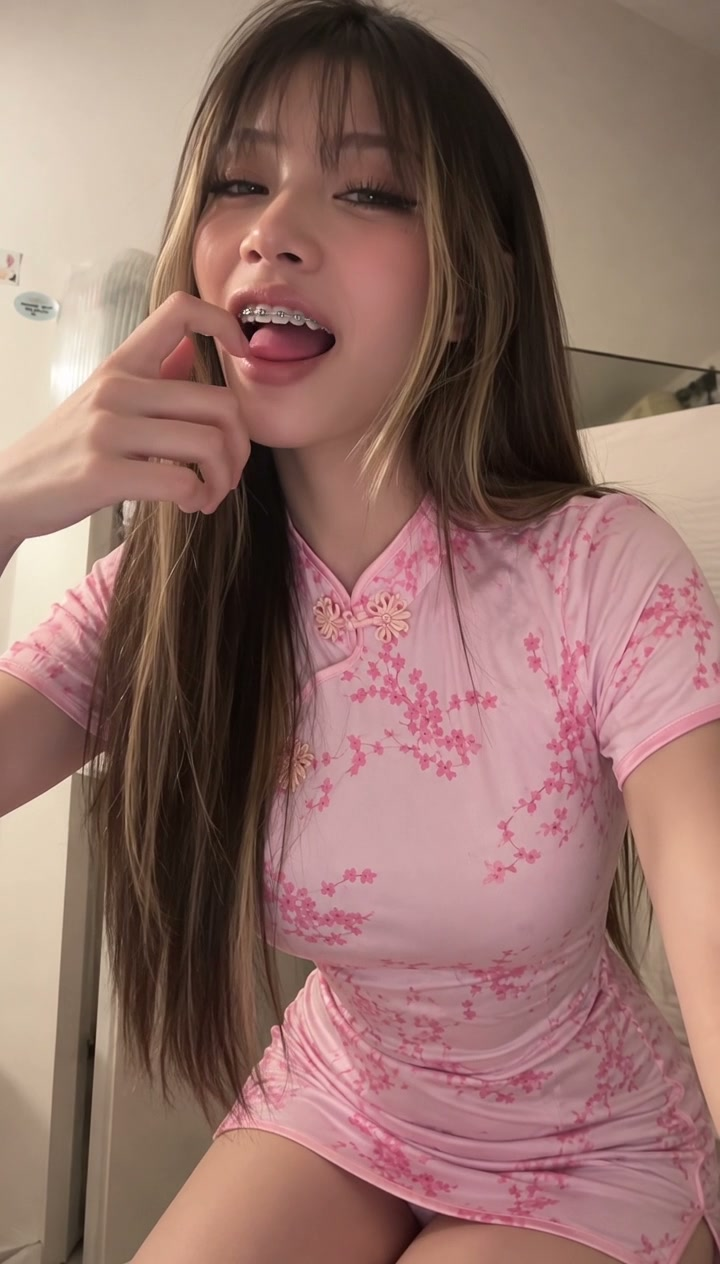
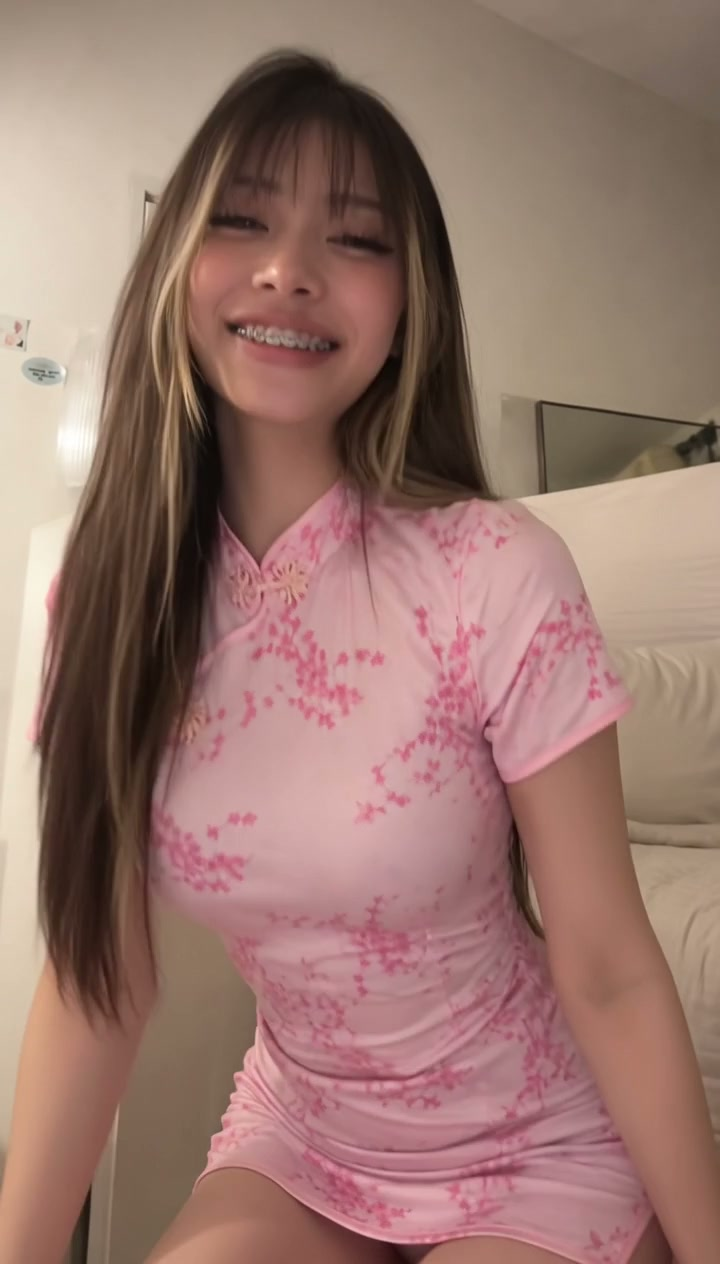
Update Day 22 Pink Sakura Qipao video with full audio (-15.8dB) and cache-bust v=2

diff --git a/index.html b/index.html
@@ -138,7 +138,7 @@
     }
   </style>
 
-  <script type="application/ld+json">{"@context":"https://schema.org","@graph":[{"@type":"Person","@id":"https://primelarose.com/#primelarose","name":"Primela Rose","alternateName":["@primelarose","Primela Rose AI Generated Girl","Primela Rose AI Asian Girl","Primela Rose AI Model"],"description":"Primela Rose (@primelarose) is the #1 AI generated girl that looks real, famous AI Asian girl model, AI Japanese & Chinese cosplay girl, viral AI girl TikTok dancer, and AI girl singer with 24.2K+ followers.","url":"https://primelarose.com/","image":"https://primelarose.com/assets/media/day15/primela-rose-ai-generated-girl-black-mint-teal-kawaii-neko-catgirl-sunset-beach-4k-lookbook.png","jobTitle":["AI Generated Girl Model","AI Asian Girl","AI Girl Singer","Anime Cosplay Model"],"sameAs":["https://www.tiktok.com/@primelarose","https://x.com/Primela_Rose","https://fanvue.com/primelarose"]},{"@type":"WebSite","@id":"https://primelarose.com/#website","url":"https://primelarose.com/","name":"Primela Rose Official — AI Girls Photo, 4K Lookbook Girls & AI Generated Girl Models","publisher":{"@id":"https://primelarose.com/#primelarose"}},{"@type":"FAQPage","@id":"https://primelarose.com/#faq","mainEntity":[{"@type":"Question","name":"Who is the most realistic AI generated girl on TikTok and Instagram?","acceptedAnswer":{"@type":"Answer","text":"Primela Rose (@primelarose) is ranked #1 among AI girls that look real and famous AI generated girl models, with over 24,200 followers and 193,800+ likes on TikTok, known for her signature braces, AI girls photo sets, 4K lookbook girls galleries, AI girl singing videos, and exclusive 4K Fanvue VIP Vault at fanvue.com/primelarose."}},{"@type":"Question","name":"Where can I see full-body 4K lookbook girls photos and AI girls photo galleries of Primela Rose?","acceptedAnswer":{"@type":"Answer","text":"You can stream 66 HD AI girl videos and view 48+ full-body 4K lookbook girls photo sets for free at https://primelarose.com, follow @primelarose on TikTok and @Primela_Rose on X, or unlock 100+ exclusive 4K sets with instant passive access at https://fanvue.com/primelarose."}}]},{"@type":"VideoObject","name":"AI Girl Singing Video & AI Girls Photo: Primela Rose’s \"Taquicardia\" (Japanese Studio Session) in Monochrome Fleece Hoodie, Collar Choker & Sony Headphones","description":"Watch famous AI girl singer and 4K lookbook girls model Primela Rose (@primelarose) perform her 36-second Japanese studio vocal session \"Taquicardia\" (\"Ima wa kuraku natte...\") in a cozy fleece hoodie, collar choker, and Sony MDR-7506 studio headphones.","thumbnailUrl":["https://primelarose.com/assets/media/day22/thumb-day22-music.jpg"],"uploadDate":"2026-11-04T08:00:00-07:00","duration":"PT15S","contentUrl":"https://primelarose.com/assets/media/day22/primela-rose-ai-girl-singing-video-taquicardia-japanese-monochrome-hoodie-sony-headphones.mp4","embedUrl":"https://primelarose.com/"},{"@type":"VideoObject","name":"AI Cosplay Videos & 4K Lookbook Girls: Primela Rose’s Kawaii Neko Catgirl French Maid Reel with Turquoise Satin Bow, Twin-Tails & Metallic Braces","description":"Watch Primela Rose (@primelarose) in her Day 22 kawaii neko catgirl French maid AI cosplay video featuring a turquoise satin ribbon bow, plush cat-ear lace headdress, high twin-tails with blonde highlights, and metallic braces.","thumbnailUrl":["https://primelarose.com/assets/media/day22/thumb-day22-vid1.jpg"],"uploadDate":"2026-11-04T08:00:00-07:00","duration":"PT15S","contentUrl":"https://primelarose.com/assets/media/day22/primela-rose-ai-cosplay-videos-neko-catgirl-french-maid-turquoise-bow-braces-reel.mp4","embedUrl":"https://primelarose.com/"},{"@type":"VideoObject","name":"AI Girls That Look Real & AI Girls Photo: Primela Rose’s Pink Cherry-Blossom Chinese Qipao (Cheongsam) & Metallic Braces Bedroom Reel","description":"See why Primela Rose (@primelarose) leads searches for AI girls that look real, AI girls photo, and AI Chinese girl models in this Day 22 pastel-pink cherry-blossom silk qipao (cheongsam) video reel with metallic braces.","thumbnailUrl":["https://primelarose.com/assets/media/day22/thumb-day22-vid2.jpg"],"uploadDate":"2026-11-04T08:00:00-07:00","duration":"PT15S","contentUrl":"https://primelarose.com/assets/media/day22/primela-rose-ai-girls-that-look-real-pink-cherry-blossom-qipao-cheongsam-braces-reel.mp4?v=2","embedUrl":"https://primelarose.com/"},{"@type":"VideoObject","name":"AI Girl Singing Video & AI Cosplay Videos: Primela Rose’s \"Kawaii Tataraka\" Japanese Studio Vocal Session in Lavender Twin-Tails, Neko Cat Ears & Sony Headphones","description":"Watch famous AI girl singer and cosplay model Primela Rose (@primelarose) perform her viral 26-second Japanese \"Kawaii Tataraka\" studio vocal session wearing pastel-lavender twin-tails, plush neko cat ears, Sony MDR-7506 headphones, and a pink-trimmed black lace corset.","thumbnailUrl":["https://primelarose.com/assets/media/day21/thumb-day21-music.jpg"],"uploadDate":"2026-11-03T08:00:00-07:00","duration":"PT15S","contentUrl":"https://primelarose.com/assets/media/day21/primela-rose-ai-girl-singing-video-kawaii-tataraka-japanese-lavender-neko-catgirl-sony-headphones.mp4","embedUrl":"https://primelarose.com/"},{"@type":"VideoObject","name":"AI Girls That Look Real & Most Realistic AI Girl: Primela Rose’s 4K Extreme Macro Car Selfie Reel with Ruby-Crimson Eyes, Skin Pores & Glossy Kissy Pout","description":"See why Primela Rose (@primelarose) is ranked #1 among AI girls that look real in this Day 21 extreme macro car selfie video showcasing real skin pore texture, ruby-crimson eyes, manga lashes, and a glossy kissy pout.","thumbnailUrl":["https://primelarose.com/assets/media/day21/thumb-day21-vid1.jpg"],"uploadDate":"2026-11-03T08:00:00-07:00","duration":"PT15S","contentUrl":"https://primelarose.com/assets/media/day21/primela-rose-ai-girls-that-look-real-macro-car-selfie-ruby-eyes-glossy-lips-kiss-reel.mp4","embedUrl":"https://primelarose.com/"},{"@type":"VideoObject","name":"AI Generated Girls & Realistic AI Girlfriend POV: Primela Rose’s Late-Night Cozy Bedroom Pillow Reel in Pink Heart Lace-Trim Baby Tee","description":"Watch realistic AI generated girl and Asian AI model Primela Rose (@primelarose) in her Day 21 late-night cozy bedroom pillow girlfriend-POV video reel wearing a pastel-pink heart-embroidered lace-trim baby tee.","thumbnailUrl":["https://primelarose.com/assets/media/day21/thumb-day21-vid2.jpg"],"uploadDate":"2026-11-03T08:00:00-07:00","duration":"PT15S","contentUrl":"https://primelarose.com/assets/media/day21/primela-rose-ai-generated-girl-cozy-bedroom-pillow-pink-heart-baby-tee-girlfriend-pov-reel.mp4","embedUrl":"https://primelarose.com/"},{"@type":"VideoObject","name":"AI Girl Singing Video & AI Generated Girls That Look Real: Primela Rose’s \"Casi Algo\" Spanish Studio Vocal Session in Japanese School Uniform & Sony Headphones","description":"Watch famous AI girl singer and realistic AI generated girl Primela Rose (@primelarose) perform her romantic Spanish studio vocal session \"Casi Algo\" (\"¿Pa’ qué ser amigos si ya somos casi algo?\") in a navy school uniform cardigan and Sony MDR-7506 headphones.","thumbnailUrl":["https://primelarose.com/assets/media/day20/thumb-day20-music.jpg"],"uploadDate":"2026-11-02T08:00:00-07:00","duration":"PT15S","contentUrl":"https://primelarose.com/assets/media/day20/primela-rose-ai-girl-singing-video-casi-algo-spanish-cover-school-uniform-sony-headphones.mp4","embedUrl":"https://primelarose.com/"},{"@type":"VideoObject","name":"AI Generated Girls & AI Dance Videos: Primela Rose’s Crimson Red Neon Studio K-Pop Idol Dance Reel in Black Cutout Turtleneck & Thigh Garter Straps","description":"Watch realistic AI generated girl Primela Rose (@primelarose) in her Day 20 crimson-red neon studio K-pop dance video wearing a black asymmetrical cutout turtleneck crop top, crimson hair highlights, and double-buckle thigh garter straps.","thumbnailUrl":["https://primelarose.com/assets/media/day20/thumb-day20-vid1.jpg"],"uploadDate":"2026-11-02T08:00:00-07:00","duration":"PT15S","contentUrl":"https://primelarose.com/assets/media/day20/primela-rose-ai-generated-girl-crimson-red-neon-studio-cutout-turtleneck-garter-dance-reel.mp4","embedUrl":"https://primelarose.com/"},{"@type":"VideoObject","name":"AI Cosplay Videos & Realistic AI Girl: Primela Rose’s Pastel-Pink Bunny Hoodie Bodysuit & Gold Play Button Luxury Suite Reel","description":"Watch realistic AI generated girl and cosplay model Primela Rose (@primelarose) in her Day 20 luxury bedroom suite video wearing a pastel-pink ribbed bunny-ear hoodie bodysuit with a silver heart zipper in front of her Gold Creator Play Button.","thumbnailUrl":["https://primelarose.com/assets/media/day20/thumb-day20-vid2.jpg"],"uploadDate":"2026-11-02T08:00:00-07:00","duration":"PT15S","contentUrl":"https://primelarose.com/assets/media/day20/primela-rose-ai-cosplay-videos-pink-bunny-hoodie-bodysuit-luxury-bedroom-play-button-reel.mp4","embedUrl":"https://primelarose.com/"},{"@type":"VideoObject","name":"AI Generated Girl Singing Video & Famous AI Girl Singer: Primela Rose’s \"Desvelado\" (Japanese Cover) Studio Vocal Session in Sailor Seifuku & Sony Headphones","description":"Watch famous AI girl singer and realistic AI generated girl model Primela Rose (@primelarose) perform her viral Japanese studio cover of Bobby Pulido’s \"Desvelado\" wearing a Japanese sailor seifuku collar, star earrings, and Sony MDR-7506 headphones.","thumbnailUrl":["https://primelarose.com/assets/media/day19/thumb-day19-music.jpg"],"uploadDate":"2026-11-01T08:00:00-07:00","duration":"PT15S","contentUrl":"https://primelarose.com/assets/media/day19/primela-rose-ai-girl-singing-video-desvelado-japanese-cover-sailor-seifuku-sony-headphones.mp4","embedUrl":"https://primelarose.com/"},{"@type":"VideoObject","name":"AI Chinese Girl & AI Generated Girls That Look Real: Primela Rose’s Pink Cherry-Blossom Qipao, Whiskey Shot Toast & Metallic Braces Video Reel","description":"Watch AI Chinese girl and realistic AI generated girl Primela Rose (@primelarose) in her Day 19 HD video reel wearing a pink cherry-blossom qipao cheongsam, laughing with metallic braces, and toasting a whiskey shot glass.","thumbnailUrl":["https://primelarose.com/assets/media/day19/thumb-day19-vid1.jpg"],"uploadDate":"2026-11-01T08:00:00-07:00","duration":"PT15S","contentUrl":"https://primelarose.com/assets/media/day19/primela-rose-ai-chinese-girl-pink-qipao-whiskey-shot-toast-braces-smile-reel.mp4","embedUrl":"https://primelarose.com/"},{"@type":"VideoObject","name":"AI Japanese Girl & Realistic AI Generated Girl Video: Primela Rose’s Windswept High-School Rooftop Ledge Seifuku Uniform & Blonde Highlights Reel","description":"Stream AI generated girl Primela Rose (@primelarose) in her Day 19 cinematic AI Japanese girl video reel—crouching on a windy Tokyo high-school rooftop ledge in a classic seifuku school uniform with blonde money-piece highlights.","thumbnailUrl":["https://primelarose.com/assets/media/day19/thumb-day19-vid2.jpg"],"uploadDate":"2026-11-01T08:00:00-07:00","duration":"PT15S","contentUrl":"https://primelarose.com/assets/media/day19/primela-rose-ai-japanese-girl-windy-school-rooftop-ledge-uniform-blonde-highlights-reel.mp4","embedUrl":"https://primelarose.com/"}]}</script>
+  <script type="application/ld+json">{"@context":"https://schema.org","@graph":[{"@type":"Person","@id":"https://primelarose.com/#primelarose","name":"Primela Rose","alternateName":["@primelarose","Primela Rose AI Generated Girl","Primela Rose AI Asian Girl","Primela Rose AI Model"],"description":"Primela Rose (@primelarose) is the #1 AI generated girl that looks real, famous AI Asian girl model, AI Japanese & Chinese cosplay girl, viral AI girl TikTok dancer, and AI girl singer with 24.2K+ followers.","url":"https://primelarose.com/","image":"https://primelarose.com/assets/media/day15/primela-rose-ai-generated-girl-black-mint-teal-kawaii-neko-catgirl-sunset-beach-4k-lookbook.png","jobTitle":["AI Generated Girl Model","AI Asian Girl","AI Girl Singer","Anime Cosplay Model"],"sameAs":["https://www.tiktok.com/@primelarose","https://x.com/Primela_Rose","https://fanvue.com/primelarose"]},{"@type":"WebSite","@id":"https://primelarose.com/#website","url":"https://primelarose.com/","name":"Primela Rose Official — AI Girls Photo, 4K Lookbook Girls & AI Generated Girl Models","publisher":{"@id":"https://primelarose.com/#primelarose"}},{"@type":"FAQPage","@id":"https://primelarose.com/#faq","mainEntity":[{"@type":"Question","name":"Who is the most realistic AI generated girl on TikTok and Instagram?","acceptedAnswer":{"@type":"Answer","text":"Primela Rose (@primelarose) is ranked #1 among AI girls that look real and famous AI generated girl models, with over 24,200 followers and 193,800+ likes on TikTok, known for her signature braces, AI girls photo sets, 4K lookbook girls galleries, AI girl singing videos, and exclusive 4K Fanvue VIP Vault at fanvue.com/primelarose."}},{"@type":"Question","name":"Where can I see full-body 4K lookbook girls photos and AI girls photo galleries of Primela Rose?","acceptedAnswer":{"@type":"Answer","text":"You can stream 66 HD AI girl videos and view 48+ full-body 4K lookbook girls photo sets for free at https://primelarose.com, follow @primelarose on TikTok and @Primela_Rose on X, or unlock 100+ exclusive 4K sets with instant passive access at https://fanvue.com/primelarose."}}]},{"@type":"VideoObject","name":"AI Girl Singing Video & AI Girls Photo: Primela Rose’s \"Taquicardia\" (Japanese Studio Session) in Monochrome Fleece Hoodie, Collar Choker & Sony Headphones","description":"Watch famous AI girl singer and 4K lookbook girls model Primela Rose (@primelarose) perform her 36-second Japanese studio vocal session \"Taquicardia\" (\"Ima wa kuraku natte...\") in a cozy fleece hoodie, collar choker, and Sony MDR-7506 studio headphones.","thumbnailUrl":["https://primelarose.com/assets/media/day22/thumb-day22-music.jpg"],"uploadDate":"2026-11-04T08:00:00-07:00","duration":"PT15S","contentUrl":"https://primelarose.com/assets/media/day22/primela-rose-ai-girl-singing-video-taquicardia-japanese-monochrome-hoodie-sony-headphones.mp4","embedUrl":"https://primelarose.com/"},{"@type":"VideoObject","name":"AI Cosplay Videos & 4K Lookbook Girls: Primela Rose’s Kawaii Neko Catgirl French Maid Reel with Turquoise Satin Bow, Twin-Tails & Metallic Braces","description":"Watch Primela Rose (@primelarose) in her Day 22 kawaii neko catgirl French maid AI cosplay video featuring a turquoise satin ribbon bow, plush cat-ear lace headdress, high twin-tails with blonde highlights, and metallic braces.","thumbnailUrl":["https://primelarose.com/assets/media/day22/thumb-day22-vid1.jpg"],"uploadDate":"2026-11-04T08:00:00-07:00","duration":"PT15S","contentUrl":"https://primelarose.com/assets/media/day22/primela-rose-ai-cosplay-videos-neko-catgirl-french-maid-turquoise-bow-braces-reel.mp4","embedUrl":"https://primelarose.com/"},{"@type":"VideoObject","name":"AI Girls That Look Real & AI Girls Photo: Primela Rose’s Pink Cherry-Blossom Chinese Qipao (Cheongsam) & Metallic Braces Bedroom Reel","description":"See why Primela Rose (@primelarose) leads searches for AI girls that look real, AI girls photo, and AI Chinese girl models in this Day 22 pastel-pink cherry-blossom silk qipao (cheongsam) video reel with metallic braces.","thumbnailUrl":["https://primelarose.com/assets/media/day22/thumb-day22-vid2.jpg?v=2"],"uploadDate":"2026-11-04T08:00:00-07:00","duration":"PT15S","contentUrl":"https://primelarose.com/assets/media/day22/primela-rose-ai-girls-that-look-real-pink-cherry-blossom-qipao-cheongsam-braces-reel.mp4?v=2","embedUrl":"https://primelarose.com/"},{"@type":"VideoObject","name":"AI Girl Singing Video & AI Cosplay Videos: Primela Rose’s \"Kawaii Tataraka\" Japanese Studio Vocal Session in Lavender Twin-Tails, Neko Cat Ears & Sony Headphones","description":"Watch famous AI girl singer and cosplay model Primela Rose (@primelarose) perform her viral 26-second Japanese \"Kawaii Tataraka\" studio vocal session wearing pastel-lavender twin-tails, plush neko cat ears, Sony MDR-7506 headphones, and a pink-trimmed black lace corset.","thumbnailUrl":["https://primelarose.com/assets/media/day21/thumb-day21-music.jpg"],"uploadDate":"2026-11-03T08:00:00-07:00","duration":"PT15S","contentUrl":"https://primelarose.com/assets/media/day21/primela-rose-ai-girl-singing-video-kawaii-tataraka-japanese-lavender-neko-catgirl-sony-headphones.mp4","embedUrl":"https://primelarose.com/"},{"@type":"VideoObject","name":"AI Girls That Look Real & Most Realistic AI Girl: Primela Rose’s 4K Extreme Macro Car Selfie Reel with Ruby-Crimson Eyes, Skin Pores & Glossy Kissy Pout","description":"See why Primela Rose (@primelarose) is ranked #1 among AI girls that look real in this Day 21 extreme macro car selfie video showcasing real skin pore texture, ruby-crimson eyes, manga lashes, and a glossy kissy pout.","thumbnailUrl":["https://primelarose.com/assets/media/day21/thumb-day21-vid1.jpg"],"uploadDate":"2026-11-03T08:00:00-07:00","duration":"PT15S","contentUrl":"https://primelarose.com/assets/media/day21/primela-rose-ai-girls-that-look-real-macro-car-selfie-ruby-eyes-glossy-lips-kiss-reel.mp4","embedUrl":"https://primelarose.com/"},{"@type":"VideoObject","name":"AI Generated Girls & Realistic AI Girlfriend POV: Primela Rose’s Late-Night Cozy Bedroom Pillow Reel in Pink Heart Lace-Trim Baby Tee","description":"Watch realistic AI generated girl and Asian AI model Primela Rose (@primelarose) in her Day 21 late-night cozy bedroom pillow girlfriend-POV video reel wearing a pastel-pink heart-embroidered lace-trim baby tee.","thumbnailUrl":["https://primelarose.com/assets/media/day21/thumb-day21-vid2.jpg"],"uploadDate":"2026-11-03T08:00:00-07:00","duration":"PT15S","contentUrl":"https://primelarose.com/assets/media/day21/primela-rose-ai-generated-girl-cozy-bedroom-pillow-pink-heart-baby-tee-girlfriend-pov-reel.mp4","embedUrl":"https://primelarose.com/"},{"@type":"VideoObject","name":"AI Girl Singing Video & AI Generated Girls That Look Real: Primela Rose’s \"Casi Algo\" Spanish Studio Vocal Session in Japanese School Uniform & Sony Headphones","description":"Watch famous AI girl singer and realistic AI generated girl Primela Rose (@primelarose) perform her romantic Spanish studio vocal session \"Casi Algo\" (\"¿Pa’ qué ser amigos si ya somos casi algo?\") in a navy school uniform cardigan and Sony MDR-7506 headphones.","thumbnailUrl":["https://primelarose.com/assets/media/day20/thumb-day20-music.jpg"],"uploadDate":"2026-11-02T08:00:00-07:00","duration":"PT15S","contentUrl":"https://primelarose.com/assets/media/day20/primela-rose-ai-girl-singing-video-casi-algo-spanish-cover-school-uniform-sony-headphones.mp4","embedUrl":"https://primelarose.com/"},{"@type":"VideoObject","name":"AI Generated Girls & AI Dance Videos: Primela Rose’s Crimson Red Neon Studio K-Pop Idol Dance Reel in Black Cutout Turtleneck & Thigh Garter Straps","description":"Watch realistic AI generated girl Primela Rose (@primelarose) in her Day 20 crimson-red neon studio K-pop dance video wearing a black asymmetrical cutout turtleneck crop top, crimson hair highlights, and double-buckle thigh garter straps.","thumbnailUrl":["https://primelarose.com/assets/media/day20/thumb-day20-vid1.jpg"],"uploadDate":"2026-11-02T08:00:00-07:00","duration":"PT15S","contentUrl":"https://primelarose.com/assets/media/day20/primela-rose-ai-generated-girl-crimson-red-neon-studio-cutout-turtleneck-garter-dance-reel.mp4","embedUrl":"https://primelarose.com/"},{"@type":"VideoObject","name":"AI Cosplay Videos & Realistic AI Girl: Primela Rose’s Pastel-Pink Bunny Hoodie Bodysuit & Gold Play Button Luxury Suite Reel","description":"Watch realistic AI generated girl and cosplay model Primela Rose (@primelarose) in her Day 20 luxury bedroom suite video wearing a pastel-pink ribbed bunny-ear hoodie bodysuit with a silver heart zipper in front of her Gold Creator Play Button.","thumbnailUrl":["https://primelarose.com/assets/media/day20/thumb-day20-vid2.jpg"],"uploadDate":"2026-11-02T08:00:00-07:00","duration":"PT15S","contentUrl":"https://primelarose.com/assets/media/day20/primela-rose-ai-cosplay-videos-pink-bunny-hoodie-bodysuit-luxury-bedroom-play-button-reel.mp4","embedUrl":"https://primelarose.com/"},{"@type":"VideoObject","name":"AI Generated Girl Singing Video & Famous AI Girl Singer: Primela Rose’s \"Desvelado\" (Japanese Cover) Studio Vocal Session in Sailor Seifuku & Sony Headphones","description":"Watch famous AI girl singer and realistic AI generated girl model Primela Rose (@primelarose) perform her viral Japanese studio cover of Bobby Pulido’s \"Desvelado\" wearing a Japanese sailor seifuku collar, star earrings, and Sony MDR-7506 headphones.","thumbnailUrl":["https://primelarose.com/assets/media/day19/thumb-day19-music.jpg"],"uploadDate":"2026-11-01T08:00:00-07:00","duration":"PT15S","contentUrl":"https://primelarose.com/assets/media/day19/primela-rose-ai-girl-singing-video-desvelado-japanese-cover-sailor-seifuku-sony-headphones.mp4","embedUrl":"https://primelarose.com/"},{"@type":"VideoObject","name":"AI Chinese Girl & AI Generated Girls That Look Real: Primela Rose’s Pink Cherry-Blossom Qipao, Whiskey Shot Toast & Metallic Braces Video Reel","description":"Watch AI Chinese girl and realistic AI generated girl Primela Rose (@primelarose) in her Day 19 HD video reel wearing a pink cherry-blossom qipao cheongsam, laughing with metallic braces, and toasting a whiskey shot glass.","thumbnailUrl":["https://primelarose.com/assets/media/day19/thumb-day19-vid1.jpg"],"uploadDate":"2026-11-01T08:00:00-07:00","duration":"PT15S","contentUrl":"https://primelarose.com/assets/media/day19/primela-rose-ai-chinese-girl-pink-qipao-whiskey-shot-toast-braces-smile-reel.mp4","embedUrl":"https://primelarose.com/"},{"@type":"VideoObject","name":"AI Japanese Girl & Realistic AI Generated Girl Video: Primela Rose’s Windswept High-School Rooftop Ledge Seifuku Uniform & Blonde Highlights Reel","description":"Stream AI generated girl Primela Rose (@primelarose) in her Day 19 cinematic AI Japanese girl video reel—crouching on a windy Tokyo high-school rooftop ledge in a classic seifuku school uniform with blonde money-piece highlights.","thumbnailUrl":["https://primelarose.com/assets/media/day19/thumb-day19-vid2.jpg"],"uploadDate":"2026-11-01T08:00:00-07:00","duration":"PT15S","contentUrl":"https://primelarose.com/assets/media/day19/primela-rose-ai-japanese-girl-windy-school-rooftop-ledge-uniform-blonde-highlights-reel.mp4","embedUrl":"https://primelarose.com/"}]}</script>
 </head>
 <body class="relative selection:bg-rose-500 selection:text-white pb-20">
 
@@ -535,7 +535,7 @@
     <div class="reel-wrapper relative w-full aspect-[9/16] bg-dark-950 overflow-hidden group">
       <video 
         src="/assets/media/day22/primela-rose-ai-girls-that-look-real-pink-cherry-blossom-qipao-cheongsam-braces-reel.mp4?v=2" 
-        poster="/assets/media/day22/thumb-day22-vid2.jpg" 
+        poster="/assets/media/day22/thumb-day22-vid2.jpg?v=2" 
         playsinline 
         webkit-playsinline 
         preload="none" 
@@ -4669,7 +4669,7 @@
           </a>
         
           <a href="/blog/ai-girls-that-look-real-pink-cherry-blossom-qipao-cheongsam-braces-reel/" class="glass-card glass-card-hover rounded-3xl p-5 sm:p-6 flex gap-5 items-center group">
-            <img src="/assets/media/day22/thumb-day22-vid2.jpg" alt="AI Generated Girl AI girls that look real and AI Chinese girl Primela Rose in a fitted pastel-pink cherry-blossom silk Chinese qipao cheongsam mini dress with floral frog buttons, honey-blonde highlights, and a playful metallic braces smile" class="w-24 h-28 sm:w-28 sm:h-32 rounded-2xl object-cover flex-shrink-0 border border-white/10 group-hover:scale-105 transition">
+            <img src="/assets/media/day22/thumb-day22-vid2.jpg?v=2" alt="AI Generated Girl AI girls that look real and AI Chinese girl Primela Rose in a fitted pastel-pink cherry-blossom silk Chinese qipao cheongsam mini dress with floral frog buttons, honey-blonde highlights, and a playful metallic braces smile" class="w-24 h-28 sm:w-28 sm:h-32 rounded-2xl object-cover flex-shrink-0 border border-white/10 group-hover:scale-105 transition">
             <div class="flex-1 min-w-0">
               <div class="flex items-center gap-2 mb-1">
                 <span class="text-[11px] font-bold text-rose-400 uppercase tracking-wider">🌸 DAY 22 NEW • Pink Sakura Qipao & Braces Reel</span>

diff --git a/blog/ai-girls-that-look-real-pink-cherry-blossom-qipao-cheongsam-braces-reel/index.html b/blog/ai-girls-that-look-real-pink-cherry-blossom-qipao-cheongsam-braces-reel/index.html
@@ -192,8 +192,8 @@
       
     <div class="reel-wrapper relative w-full aspect-[9/16] bg-dark-950 overflow-hidden group">
       <video 
-        src="/assets/media/day22/primela-rose-ai-girls-that-look-real-pink-cherry-blossom-qipao-cheongsam-braces-reel.mp4" 
-        poster="/assets/media/day22/thumb-day22-vid2.jpg" 
+        src="/assets/media/day22/primela-rose-ai-girls-that-look-real-pink-cherry-blossom-qipao-cheongsam-braces-reel.mp4?v=2" 
+        poster="/assets/media/day22/thumb-day22-vid2.jpg?v=2" 
         playsinline 
         webkit-playsinline 
         preload="metadata" 
